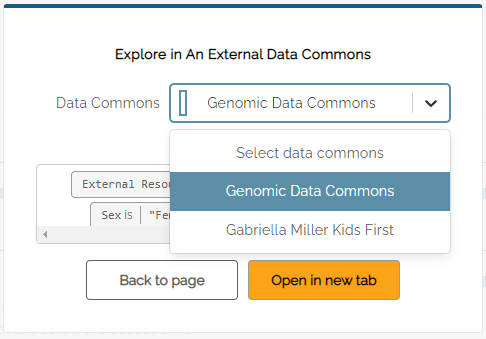
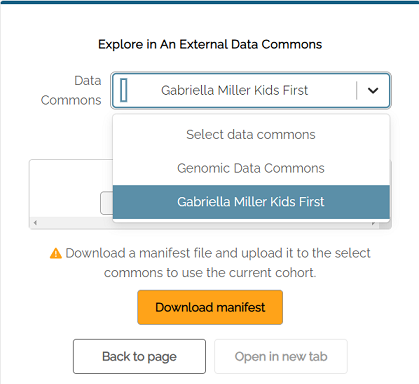
Release_v1.24_documentation_updates
Updated Portal User Guide and Software Updates documents.

diff --git a/docs/DataPortalUserGuide.md b/docs/DataPortalUserGuide.md
@@ -1,7 +1,7 @@
 ![Logo](img/PcdcLogo.png)
 
 # Pediatric Cancer Data Commons<br> Data Portal User Guide
-###### v1.23.0 User Guide
+###### v1.24.0 User Guide
 ## Introduction
 
 The Pediatric Cancer Data Commons (PCDC) brings together clinical, genomic, and imaging data from institutions around the world that are working to transform pediatric cancer research and outcomes. Headquartered at the University of Chicago, the PCDC works with international leaders in pediatric cancers and the US National Cancer Institute to develop and apply uniform data standards, facilitating the collection, combination, and analysis of data from many different sources. 
@@ -259,19 +259,18 @@ Note: when using a Composed filter, the left filter panel becomes inactivated.
 
 ### Explore in An External Data Commons
 
-Some subjects within the PCDC can be further explored in external Data Commons'. Currently, Gabriela Miller Kids First and the Genomic Data Commons are available for exploration. 
+Some subjects within the PCDC can be further explored in external Data Commons'. Currently, Gabriela Miller Kids First (GMKF) and the Genomic Data Commons (GDC) are available for exploration. 
 
 **To explore subjects within an external commons:**
 
-1) Create a data set using the Filter Set Workspace. It is recommended users save their data set before using the "Explore in" function. 
+1) Create a data set using the Filter Set Workspace. It is recommended users save their data set before using the "Explore in" function. Set the desired data set as "Active" by clicking on it within the Workspace.
 
 2) Click on the **Explore in** button in the upper right part of the Exploration page. A pop-up window will open. The drop-down menu is used to select the external data commons. 
 
 ![Explore in](img/explore_in.png)
 
-3) For data sets with fewer than 40 subjects, the **Open in new tab** button will be active. Clicking on the button will take the user to the selected website where the subjects will be available for analysis. 
+3) Download the manifest. The "Open in new tab" button will activate after downloading the file. Follow the instructions on the target website to upload the manifest. 
 
-4) Data sets with more than 40 subjects will require a manifest file to be downloaded to the user's computer and uploaded to the target data commons. The "Open in new tab" button will not be active until the user downloads the manifest. Follow the instructions on the target website to upload the manifest. 
 
 ### Survival Analysis
 

diff --git a/docs/SoftwareUpdates.md b/docs/SoftwareUpdates.md
@@ -1,5 +1,6 @@
 | Version | Release Date &nbsp; &nbsp; &nbsp; &nbsp; &nbsp; &nbsp;| Description |
 | ------- | -------------- | ----------------------------|
+| v1.24.0 | Mar 12, 2024 | Improvements to the admin functions on the Data Requests page; updated Explore In function for GDC 2.0  |
 | v1.23.0 | Jan 30, 2024 | Changes to the Data Request filters; improved look of the Survival Analysis tab |
 | v1.22.0 | Dec 12, 2023 | Minor improvements to user interface within the Data Requests page |
 | v1.21.0 | Nov 14, 2023 | Users can change the Filter Set Workspace window size |
